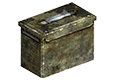
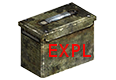
New challenges and items.
items : genericExplBox
challenges : allClasses_challengeEXPL1-3 and allClasses_challengeDLX1->3

Changed region(s): [[0.4138, 0.55, 0.5948, 0.725], [0.6207, 0.55, 0.8017, 0.725]]

diff --git a/README.md b/README.md
@@ -20,12 +20,11 @@ This is a fork of the Valmod Pack - Expansion Edition.
  - 3023 ammoSupply762mmHP (OK)
  - 3024 ammoSupplyShotgunHP (siege) (OK)
  - 3025 genericAmmoBoxHP (OK)
- - 3026 genericExplBox (molotov id 183 , mines id 431, tnt id 381) (in progress)
- - 3027 genericDlxBox (genericAmmoBoxINC + genericAmmoBoxHP + genericExplBox + firstAidKit) (NOK)
- - 3028 genericWeap400Box (you choose one firearm lvl 400-499) (NOK)
- - 3029 genericWeap500Box (you choose one firearm lvl 500-599) (NOK)
- - 3030 genericWeap600Box (you choose one firearm lvl 600) (NOK)
- - 3031 genericCrossbow600Box (NOK) (you choose one crossbow lvl 600) (NOK)
+ - 3026 genericExplBox (OK)
+ - 3027 genericWeap400Box (you choose one firearm lvl 400-499) (NOK)
+ - 3028 genericWeap500Box (you choose one firearm lvl 500-599) (NOK)
+ - 3029 genericWeap600Box (you choose one firearm lvl 600) (NOK)
+ - 3030 genericCrossbow600Box (NOK) (you choose one crossbow lvl 600) (NOK)
 
 2. New classes : (OK)
  - Spy (OK),
@@ -38,26 +37,30 @@ This is a fork of the Valmod Pack - Expansion Edition.
 	- Spy (in progress)
 		- objectives : Lockpicking, ZombieKill (NOK)
 		- rewards : items(Ammoboxes, firstAidKit, repairKit ?), skills(pistols, Lockpicking) (NOK)
+		- ZombieKill set to 1 for testing purposes
 	- Farmer (in progress)
 		- objectives : ZombieKill with tools, ZombieKill with rifle, havresting (NOK)
 		- rewards : items(fertilizers, seeds, Ammoboxes, firstAidKit, repairKit ?), skills(construction tools, rifles) (NOK)
  - New "All classes" challenges - DO NOT GIVE THIS QUESTLINE TO SURVIVOR CLASS - (in progress)
-	- stage 2, 3 steps : allClasses_challengeINC1->3 (in progress)
+	- stage 2, 3 steps : allClasses_challengeINC1->3 (OK)
 		- objectives : ZombieKill / all classes all weapons allowed 
-		- rewards : genericAmmoBoxINC (OK) *1 - *3 - *5 (NOK)
+		- rewards : genericAmmoBoxINC (OK) *1 - *3 - *5 (OK)
 		- working but ZombieKill set to 1 for testing purposes
-	- stage 3, 3 steps : allClasses_challengeHP1->3 (in progress)
+	- stage 3, 3 steps : allClasses_challengeHP1->3 (OK)
 		- objectives : ZombieKill / all classes all weapons allowed 
-		- rewards : genericAmmoBoxHP (OK) *1 - *3 - *5 (NOK)
+		- rewards : genericAmmoBoxHP (OK) *1 - *3 - *5 (OK)
 		- working but ZombieKill set to 1 for testing purposes
-	- stage 4, 3 steps : allClasses_challengeEXPL1->3 (NOK)
+	- stage 4, 3 steps : allClasses_challengeEXPL1->3 (OK)
 		- objectives : ZombieKill / all classes all weapons allowed 
-		- rewards : genericExplBox (NOK) *1 - *3 - *5 (NOK)
-		- not implemented yet
-	- stage 5, 3 steps : allClasses_challengeDLX1-> (NOK)
-		- objectives : ZombieKill / all classes all weapons allowed 
-		- rewards : genericDlxBox (NOK) *1 - *3 - *5 (NOK)
-		- not implemented yet
+		- rewards : genericExplBox (in progress) *1 - *3 - *5 (OK)
+		- working but ZombieKill set to 1 for testing purposes
+	- stage 5, 3 steps : allClasses_challengeDLX1->3 (OK)
+		- objectives : ZombieKill / all classes all weapons allowed
+		- rewards : genericAmmoBoxINC (OK) *1 - *3 - *5 (OK)
+		- rewards : genericAmmoBoxHP (OK) *1 - *3 - *5 (OK)
+		- rewards : genericExplBox (OK) *1 - *3 - *5 (OK)
+		- rewards : firstAidKit (OK) *1 - *3 - *5 (OK)
+		- working but ZombieKill set to 1 for testing purposes
 	- stage 6, 3 steps : allClasses_challengeWEAP1->3 (NOK)
 		- objectives : ZombieKill / all classes all weapons allowed 
 		- rewards : genericWeap400Box->genericWeap500Box->genericWeap600Box (NOK)
@@ -77,7 +80,7 @@ This is a fork of the Valmod Pack - Expansion Edition.
 		- not implemented yet
 	- stage 5, 3 steps : allClasses_5survivor1->3 (NOK)
 		- objectives : ZombieKill / survivor class crossbow only allowed 
-		- rewards : explodingCrossbowBolt (OK) *200 - *230 - *260 (NOK)
+		- rewards : explodingCrossbowBolt (OK) *250 - *300 - *400 (NOK)
 		- rewards : genericExplBox (NOK) *1 - *3 - *5 (NOK)
 		- rewards : firstAidKit (OK) *1 - *3 - *5 (NOK)
 		- not implemented yet
@@ -92,10 +95,10 @@ This is a fork of the Valmod Pack - Expansion Edition.
 
 5. Edit the blood moon mechanics in order to modify the 7 days delay to 28 days. (NOK)
 6. Add an Haloween ultra hardcore h24 blood moon on day 666. (NOK)
-7. Misc : I also may translate the mod to french. (NOK)
-8. Misc : Add a "Baguette" (bread) weapon (and also a white flag lol) because I'm french. (NOK)
-9. Misc : Add a "Maple Syrup" item (similar with honey) because I do love Québec. (NOK)
-10. Misc : The blood moon white flag/baguette nude run survival challenge ! - floor level >= -1 (NOK)
+7. Add a "Baguette" (bread) weapon (and also a white flag lol) because I'm french. (NOK)
+8. Add a "Maple Syrup" item (similar with honey) because I do love Québec. (NOK)
+9. The blood moon white flag/baguette nude run survival challenge ! - floor level >= -1 (NOK)
+10. Misc : I also may translate the mod to french. (NOK)
 
 I work with Notepad++, Gimp, Github Desktop and MobaXTerm on a MS Windows 10 x64 PC.
 
